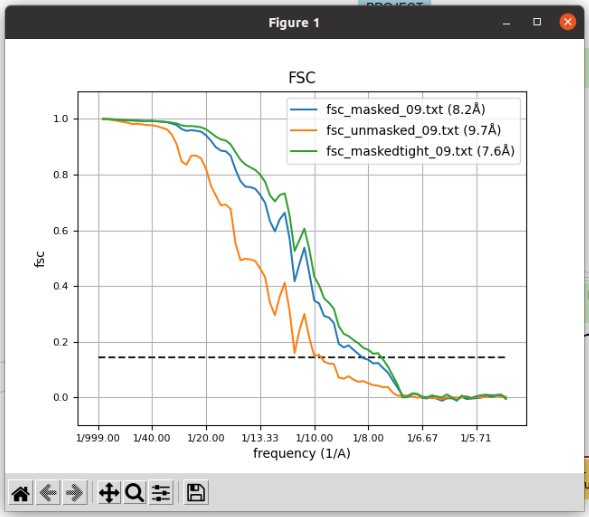
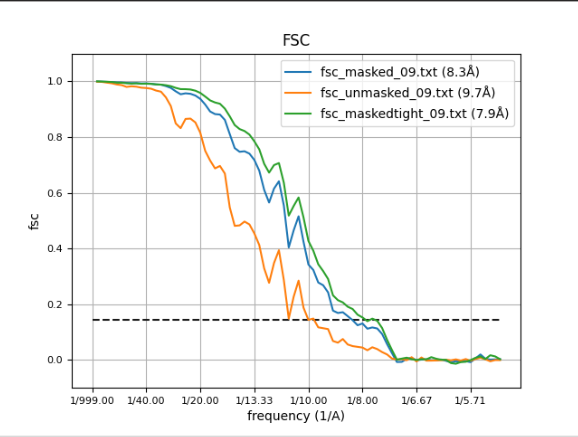
Expand emantomo STA tutorial

diff --git a/docs/user/tutorials/tomo/Emantomo_STA/emantomo-sta-workflow.rst b/docs/user/tutorials/tomo/Emantomo_STA/emantomo-sta-workflow.rst
@@ -40,8 +40,8 @@ using EMAN_ plugin for Scipion combined with others, listed below for each step:
 The dataset
 -----------
 
-The dataset used for this tutorial is a subset of EMPIAR-10064_, concretely the TS named mixedCTEM_tomo4.mrc. The
-dataset also includes:
+The dataset used for this tutorial is a subset of EMPIAR-10064_, concretely the TS named mixedCTEM_tomo4.mrc (whose
+details can be found separately in EMD-3420_). The dataset also includes:
 
 * The estimated CTF, carried out with scipion-em-gctf_ and converted with Scipion into IMOD_ CTF format to import it using the corresponding protocol from the plugin scipion-em-imod_.
 
@@ -330,13 +330,13 @@ The generated output will be a set of averages, one for each class specified. In
 the number of classes introduced in the protocol form was 1. Sometimes it can be very useful to specify more than one
 class even if there is only one class, and then select the best one, as sometimes the convergence is not reached and
 the result is not good. On the other hand, the higher number of classes introduced, the longer it will take the
-protocol to finish. Said that, let's open our initial model, in this case with ChimeraX_. It should look like as
+protocol to finish. Said that, let's open our initial model, in this case with Chimera_. It should look like as
 in the figure below:
 
 .. figure:: /docs/user/tutorials/tomo/Emantomo_STA/14_initial_volume_chimerax.png
    :width: 500
    :align: center
-   :alt: Initial volume displayed with ChimeraX_
+   :alt: Initial volume displayed with Chimera_
 
 Subtomogram refinement
 ======================
@@ -386,12 +386,12 @@ This protocol generates 3 outputs, that are:
 
 Let's display it:
 
-* The refined average, using ChimeraX_:
+* The refined average, using Chimera_:
 
 .. figure:: /docs/user/tutorials/tomo/Emantomo_STA/16_refined_avg_chimerax.png
    :width: 500
    :align: center
-   :alt: Refined average displayed with ChimeraX_
+   :alt: Refined average displayed with Chimera_
 
 * The refined subtomograms, displayed with Scipion metadata vierwer:
 
@@ -410,27 +410,47 @@ Let's display it:
 Full dataset results
 ====================
 The same workflow was carried out with all the TS (mixedCTEM ones) that compose the dataset EMPIAR-10064_. The
-corresponding refinement result (dispalyed with ChimeraX_) at bin 1, together with the FSC curves are shown below:
+corresponding refinement result (displayed with Chimera_) at bin 1, together with the FSC curves are shown below:
 
 .. figure:: /docs/user/tutorials/tomo/Emantomo_STA/20_refined_avg_chimera_all_dataset.png
    :width: 500
    :align: center
-   :alt: Refined average displayed with ChimeraX_ whole dataset
+   :alt: Refined average displayed with Chimera_ whole dataset
 
 .. figure:: /docs/user/tutorials/tomo/Emantomo_STA/21_fscs_whole_dataset_bin1.png
    :width: 500
    :align: center
    :alt: FSCs at bin1 whole dataset
 
+The volume obtained was sharpened using the protocol deepEMhancer from the plugin scipion-em-xmipp_. The resulting
+volume can be observed in the figure below, displayed again with Chimera_:
+
+.. figure:: /docs/user/tutorials/tomo/Emantomo_STA/20_sharpened_refined_volume_whole_dataset.png
+   :width: 500
+   :align: center
+   :alt: Sharpened refined average displayed with Chimera_ whole dataset
+
+Compared to the corresponding EMD dataset (EMD-3420_), the resolution it can be observed that the resolution achieved
+with the workflow proposed is higher that the reported in EMD (8.3Å vs 11.2Å). The figure below shows the superposition
+ob both structures (EMD in yellow and the one obtained in blue) displayed with Chimera_. It can be observed that the
+correlation between both structures is about 84%.
+
+.. figure:: /docs/user/tutorials/tomo/Emantomo_STA/20_EMD_and_obtained_structures_superposed.png
+   :width: 900
+   :align: center
+   :alt: EMD and obtained structures superposed displayed with Chimera_ whole dataset
+
 
 .. _Scipion: http://scipion.i2pc.es/
 .. _IMOD: https://bio3d.colorado.edu/imod/
 .. _EMAN: https://blake.bcm.edu/emanwiki/EMAN2
 .. _crYOLO: https://cryolo.readthedocs.io/en/stable/
-.. _ChimeraX: https://www.cgl.ucsf.edu/chimerax/
+.. _Chimera: https://www.cgl.ucsf.edu/chimera/
 .. _scipion-em-tomo: https://github.com/scipion-em/scipion-em-tomo
 .. _scipion-em-imod: https://github.com/scipion-em/scipion-em-imod
 .. _scipion-em-emantomo: https://github.com/scipion-em/scipion-em-emantomo
 .. _scipion-em-gctf: https://github.com/scipion-em/scipion-em-gctf
 .. _scipion-em-sphire: https://github.com/scipion-em/scipion-em-sphire
+.. _scipion-em-xmipp: https://github.com/I2PC/scipion-em-xmipp
 .. _EMPIAR-10064: https://www.ebi.ac.uk/empiar/EMPIAR-10064/
+.. _EMD-3420: https://www.ebi.ac.uk/emdb/EMD-3420?tab=overview
